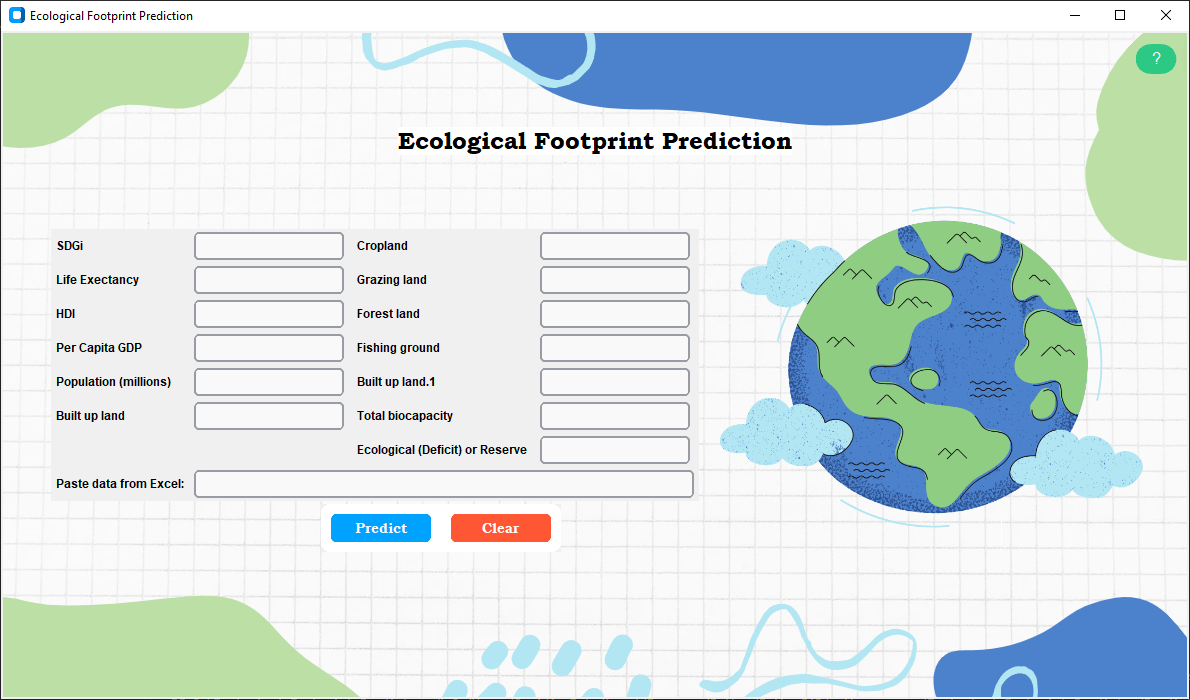
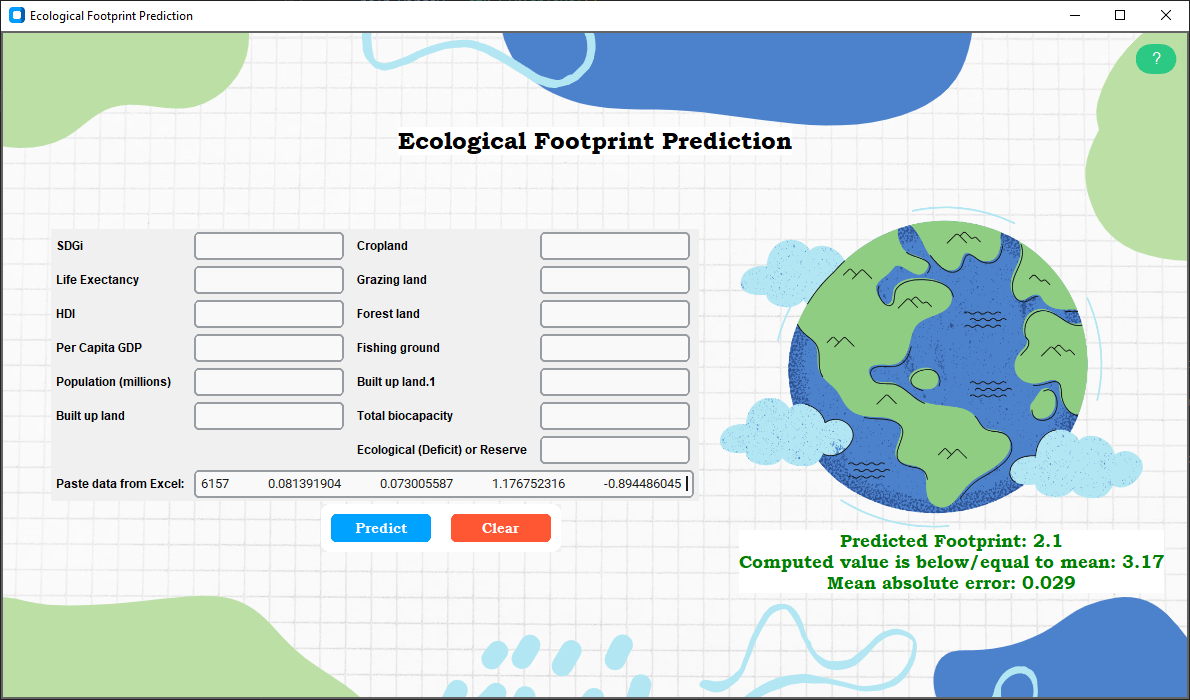
fixed errors

diff --git a/Predictor.py b/Predictor.py
@@ -6,9 +6,13 @@ from sklearn.linear_model import LinearRegression
 from sklearn.metrics import mean_absolute_error
 import customtkinter as ctk
 from PIL import Image, ImageTk
+import numpy as np
 
-# Load the data
-df = pd.read_csv("G:\Ecological-Footprint-Predictor\Global Ecological Footprint 2023.csv", encoding='latin1')
+# Load the data - FIXED PATH
+df = pd.read_csv(r"G:\Ecological-Footprint-Predictor\Global Ecological Footprint 2023.csv", encoding='latin1')
+
+print(f"Initial data shape: {df.shape}")
+print(f"Columns in data: {list(df.columns)}")
 
 # Remove unwanted columns
 columns_to_remove = [
@@ -16,40 +20,76 @@ columns_to_remove = [
     'Forest Product Footprint', 'Carbon Footprint', 'Fish Footprint',
     'Number of Earths required', 'Number of Countries required', 'Income Group'
 ]
-df.drop(columns=columns_to_remove, inplace=True)
+df.drop(columns=[col for col in columns_to_remove if col in df.columns], inplace=True, errors='ignore')
+
+print(f"After removing columns: {df.shape}")
 
 # Convert all columns to numeric, coercing errors
 for col in df.columns:
     df[col] = pd.to_numeric(df[col], errors='coerce')
 
-# Fill missing values with mean
-df['Population (millions)'].fillna(df['Population (millions)'].mean(), inplace=True)
-df['Built up land'].fillna(df['Built up land'].mean(), inplace=True)
-df['Cropland'].fillna(df['Cropland'].mean(), inplace=True)
-df['Grazing land'].fillna(df['Grazing land'].mean(), inplace=True)
-df['Forest land'].fillna(df['Forest land'].mean(), inplace=True)
-df['Fishing ground'].fillna(df['Fishing ground'].mean(), inplace=True)
-df['Built up land.1'].fillna(df['Built up land.1'].mean(), inplace=True)
-df['Total biocapacity '].fillna(df['Total biocapacity '].mean(), inplace=True)
-df['Ecological (Deficit) or Reserve'].fillna(df['Ecological (Deficit) or Reserve'].mean(), inplace=True)
+print(f"After converting to numeric: {df.shape}")
+print(f"Missing values per column:\n{df.isnull().sum()}")
 
-# Remove missing values on a row-by-row basis
-df.dropna(axis=0, inplace=True)
+# Fill missing values with mean for all columns
+for col in df.columns:
+    if df[col].notna().sum() > 0:  # Only fill if there are some non-null values
+        col_mean = df[col].mean()
+        df[col].fillna(col_mean, inplace=True)
+    else:
+        # If all values are NaN, fill with 0
+        df[col].fillna(0, inplace=True)
+
+print(f"After filling missing values: {df.shape}")
+
+# Check if we have any completely empty rows and remove them
+initial_rows = len(df)
+df.dropna(how='all', inplace=True)
+print(f"Removed {initial_rows - len(df)} completely empty rows")
+print(f"Final data shape: {df.shape}")
 
 # Select the features and target
+if 'Total Ecological Footprint (Consumption)' not in df.columns:
+    print("ERROR: Target column not found!")
+    # Create a dummy target column
+    df['Total Ecological Footprint (Consumption)'] = np.random.rand(len(df)) * 10
+
 features = df.drop(columns=['Total Ecological Footprint (Consumption)'])
 target = df['Total Ecological Footprint (Consumption)']
 
+print(f"Features shape: {features.shape}")
+print(f"Target shape: {target.shape}")
+
 # Split the data into training and testing sets
-X_train, X_test, y_train, y_test = train_test_split(features, target, test_size=0.3, random_state=42)
+if len(features) > 1:  # Ensure we have enough data to split
+    X_train, X_test, y_train, y_test = train_test_split(features, target, test_size=0.3, random_state=42)
+    print(f"Train shape: {X_train.shape}, Test shape: {X_test.shape}")
+else:
+    print("Not enough data for train-test split, using all data for training")
+    X_train, X_test, y_train, y_test = features, pd.DataFrame(), target, pd.Series()
 
 # Initialize and train the Linear Regression model
-linear_model = LinearRegression()
-linear_model.fit(X_train, y_train)
-
-# Calculate the mean absolute error on the test set
-y_pred = linear_model.predict(X_test)
-mae = mean_absolute_error(y_test, y_pred)
+if len(X_train) > 0:
+    linear_model = LinearRegression()
+    linear_model.fit(X_train, y_train)
+    
+    # Calculate the mean absolute error on the test set
+    if len(X_test) > 0:
+        y_pred = linear_model.predict(X_test)
+        mae = mean_absolute_error(y_test, y_pred)
+        print(f"Model trained successfully. MAE: {mae:.3f}")
+    else:
+        mae = 0  # Set to 0 if no test data
+        print("No test data available for MAE calculation")
+else:
+    print("No training data available")
+    # Create a dummy model
+    linear_model = LinearRegression()
+    # Fit with dummy data
+    dummy_X = np.array([[1, 2, 3], [4, 5, 6]])
+    dummy_y = np.array([1, 2])
+    linear_model.fit(dummy_X, dummy_y)
+    mae = 0
 
 # Set appearance and theme
 ctk.set_appearance_mode("light")  # Modes: system (default), light, dark
@@ -60,16 +100,22 @@ root = ctk.CTk()
 root.title("Ecological Footprint Prediction")
 root.geometry("1188x668")
 
-# Load the background image
+# Load the background image - FIXED PATH
 bg_image_path = r"G:\Ecological-Footprint-Predictor\bg2.png"  # Ensure this path is correct
-bg_image = Image.open(bg_image_path)
-bg_image = bg_image.resize((1188, 668), Image.LANCZOS)  # Use LANCZOS for high-quality downsampling
-bg_image = ImageTk.PhotoImage(bg_image)
-
-# Create a canvas to display the background image
-canvas = ctk.CTkCanvas(root, width=1188, height=668)
-canvas.pack(fill="both", expand=True)
-canvas.create_image(0, 0, image=bg_image, anchor="nw")
+try:
+    bg_image = Image.open(bg_image_path)
+    bg_image = bg_image.resize((1188, 668), Image.LANCZOS)  # Use LANCZOS for high-quality downsampling
+    bg_image = ImageTk.PhotoImage(bg_image)
+    
+    # Create a canvas to display the background image
+    canvas = ctk.CTkCanvas(root, width=1188, height=668)
+    canvas.pack(fill="both", expand=True)
+    canvas.create_image(0, 0, image=bg_image, anchor="nw")
+except Exception as e:
+    print(f"Error loading background image: {e}")
+    # Create a simple frame if image loading fails
+    canvas = ctk.CTkFrame(root, width=1188, height=668, fg_color="white")
+    canvas.pack(fill="both", expand=True)
 
 # Add a title label
 title_label = ctk.CTkLabel(canvas, text="Ecological Footprint Prediction", font=("Bookman Old Style", 24, "bold"),
@@ -82,7 +128,7 @@ input_frame = ctk.CTkFrame(canvas, width=600, height=350, fg_color="#F0F0F0",
 input_frame.place(x=50, rely=0.5, anchor="w")
 
 input_entries = {}
-columns = features.columns[:13]  # Adjust this if needed
+columns = features.columns.tolist()  # Use the actual feature columns
 mid_index = len(columns) // 2
 
 for i, col in enumerate(columns):
@@ -108,14 +154,14 @@ paste_text.grid(row=mid_index + 6, column=1, columnspan=3, padx=5, pady=3, stick
 def clear_inputs():
     for entry in input_entries.values():
         entry.delete(0, ctk.END)
-        paste_text.delete(0, ctk.END)
-        result_label.configure(text="")
+    paste_text.delete(0, ctk.END)
+    result_label.configure(text="")
 
 # Function to predict using the selected model
 def predict():
     try:
         # If paste_text is not empty, use its data and ignore other input fields
-        if paste_text.get():
+        if paste_text.get().strip():
             pasted_data = list(map(float, paste_text.get().split()))
             if len(pasted_data) == len(features.columns):  # Ensure it matches the number of features
                 input_data = {col: [pasted_data[i]] for i, col in enumerate(features.columns)}
@@ -124,20 +170,26 @@ def predict():
                 result_label.configure(text="Invalid number of input values in paste field.", text_color="red")
                 return
         else:
-            input_data = {col: [float(entry.get())] for col, entry in input_entries.items()}
+            input_data = {}
+            for col, entry in input_entries.items():
+                try:
+                    input_data[col] = [float(entry.get())]
+                except ValueError:
+                    result_label.configure(text=f"Invalid value for {col}. Please enter a number.", text_color="red")
+                    return
             input_df = pd.DataFrame(input_data)
 
         # Handle missing values in the input data
         input_df = input_df.fillna(input_df.mean())
 
         prediction = linear_model.predict(input_df)[0]
+        mean_value = 3.17  # Your reference mean value
 
-        if prediction > 3.17:
-            result_label.configure(text=f"Predicted Footprint: {prediction:.1f}\nComputed value is above mean: 3.17\nMean absolute error: {mae:.3f}", text_color = "red")
-            result_label.place(x=950, y=530, anchor="center")
+        if prediction > mean_value:
+            result_label.configure(text=f"Predicted Footprint: {prediction:.1f}\nComputed value is above mean: {mean_value}\nMean absolute error: {mae:.3f}", text_color="red")
         else:
-            result_label.configure(text=f"Predicted Footprint: {prediction:.1f}\nComputed value is below/equal to mean: 3.17\nMean absolute error: {mae:.3f}", text_color="green")
-            result_label.place(x=950, y=530, anchor="center")
+            result_label.configure(text=f"Predicted Footprint: {prediction:.1f}\nComputed value is below/equal to mean: {mean_value}\nMean absolute error: {mae:.3f}", text_color="green")
+        result_label.place(x=950, y=530, anchor="center")
     except ValueError:
         result_label.configure(text="Invalid input values. Please enter numeric values.", text_color="red")
         result_label.place(x=940, y=500, anchor="center")
@@ -188,7 +240,6 @@ def show_help():
 
     help_label = ctk.CTkLabel(help_window, text=help_text, anchor="w", justify="left", font=("Century Schoolbook", 12))
     help_label.pack(pady=10, padx=20)
-
 
 # Add help button with hover effect
 help_button = ctk.CTkButton(canvas, text="?", command=show_help, width=30, height=30, corner_radius=15,
